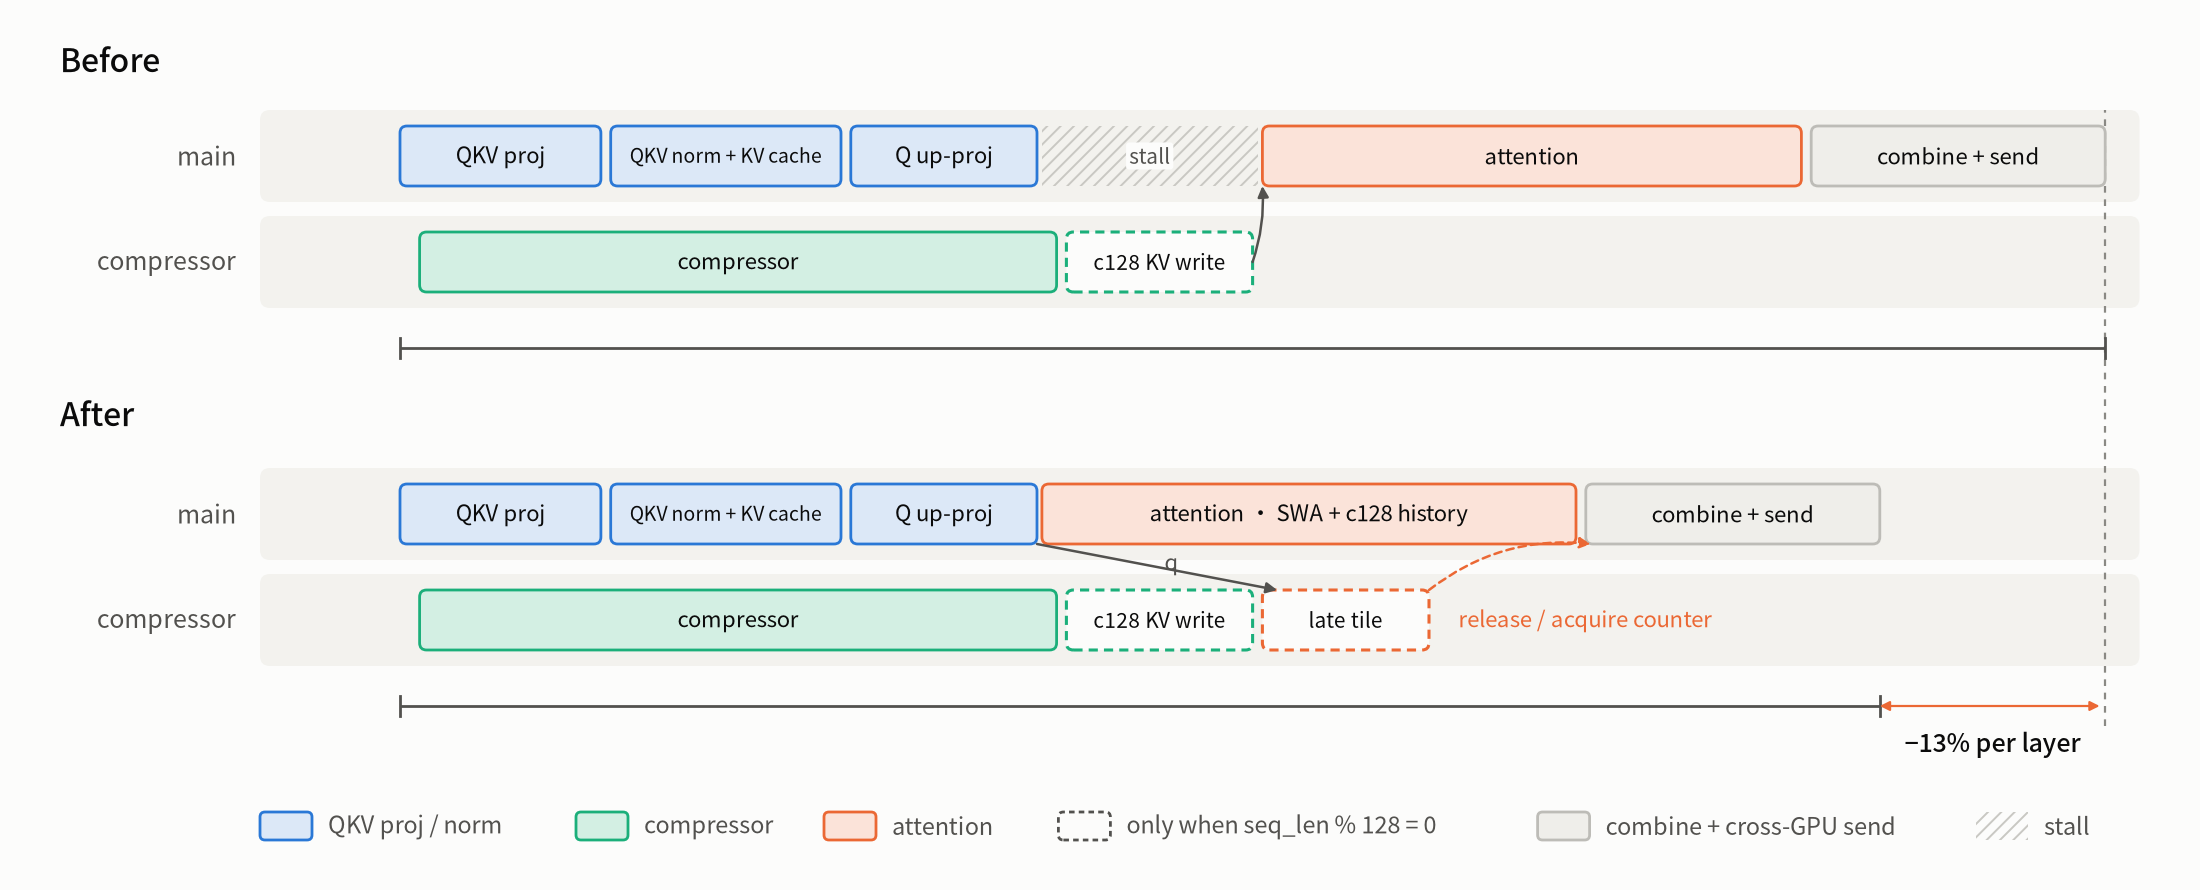
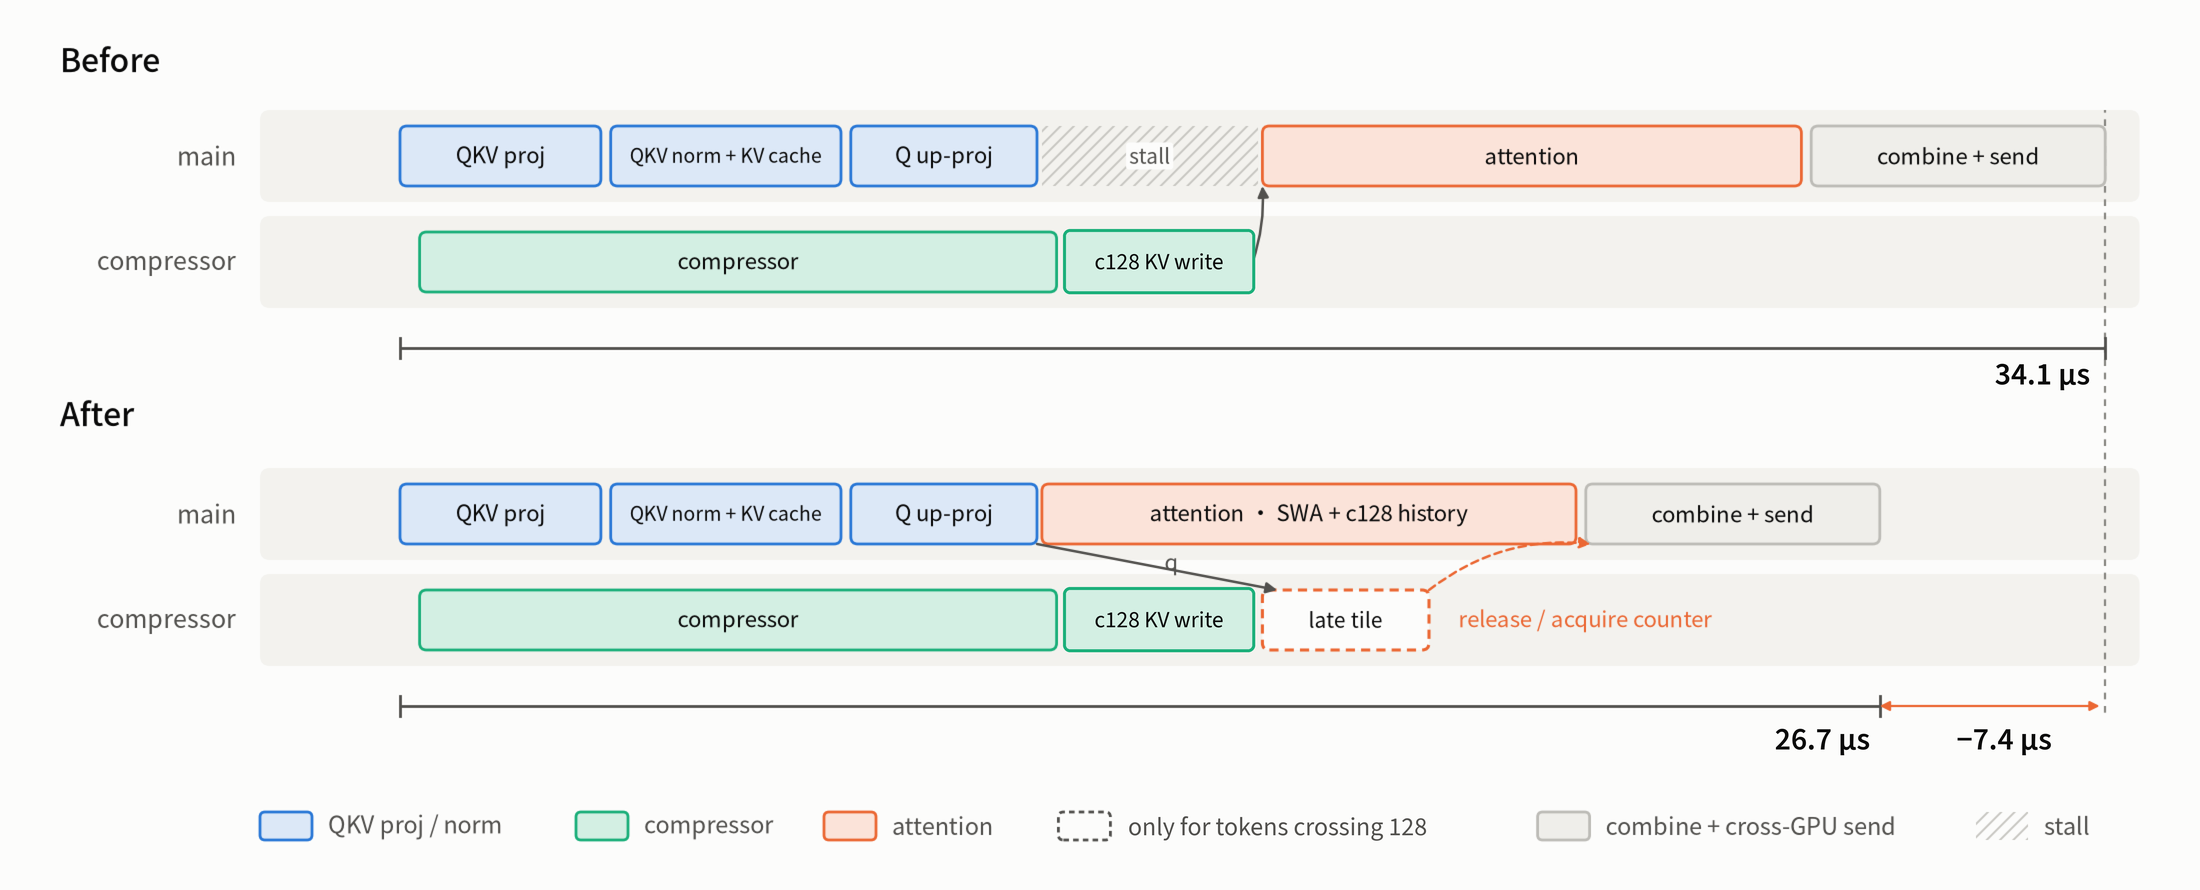
fix docs

diff --git a/blog/2026-11-23-ernie55-flash-low-latency.md b/blog/2026-11-23-ernie55-flash-low-latency.md
@@ -6,15 +6,15 @@ previewImg: "/images/blog/ernie55-flash-low-latency/decode-progress.png"
 type: "blog"
 ---
 
-We have added low-latency decoding support for ERNIE 5.5 Flash to SGLang and optimized it end to end. On four SM100 GPUs, BS=1, 55K input tokens and 1K output tokens, we introduced low-latency GEMM and tensor parallelism, integrated DSpark speculative decoding, iteratively tuned compute-communication fusion, multi-stream execution and PDL, and completed optimizations including MegaLLMoE, attention dataflow restructuring and One-Pass mHC. With the final configuration of attention TP4 and MoE TP4, **decoding reaches 1074 tokens/s at a DSpark acceptance length of 5.5, and about 1310 tokens/s at an acceptance length of 7.2.**
+We have added low-latency decoding support for ERNIE 5.5 Flash to SGLang and optimized it end to end. On four SM100 GPUs, BS=1, 55K input tokens and 1K output tokens, we introduced low-latency GEMM and tensor parallelism, integrated DSpark speculative decoding, iteratively tuned compute-communication fusion, multi-stream execution and PDL, and completed optimizations including MegaLLMoE, attention dataflow restructuring and One-Pass mHC. With the final configuration of attention TP4 and MoE TP4, **decoding reaches 1074 tokens/s at a simulated mean DSpark acceptance length of 5.5, and about 1310 tokens/s with DSpark block size 7 at a simulated acceptance length of 7.2.**
 
 ![ERNIE 5.5 Flash decode speed after each merged optimization](/images/blog/ernie55-flash-low-latency/decode-progress.png)
 
-Each point shows the end-to-end decoding speed after an optimization was merged, in merge order, with several key optimizations annotated. All measurements after DSpark is enabled use an acceptance length of 5.5.
+Each point shows the end-to-end decoding speed after an optimization was merged, in merge order, with several key optimizations annotated. The first point is the naive DP/EP implementation, and TP4 is used from the second point on. All measurements after DSpark is enabled use a simulated acceptance length of 5.5.
 
 ## The Bottlenecks of Low-Latency Decoding
 
-LLM decoding is autoregressive: each step depends on the output of the previous one. Pushing decoding speed to its limit generally means optimizing aggressively for low concurrency, where very few tokens take part in each step: one in regular decoding, and only a handful even with speculative decoding. Measured by the roofline model, its arithmetic intensity is far too low, making it a classic memory-bound workload. ERNIE 5.5 Flash is a large sparse MoE model that uses mHC to maintain multiple residual streams across layers. In this setting, every fine-grained architectural detail adds memory traffic, synchronization and communication overhead, synchronization and communication overhead. Decoding here is therefore fundamentally latency-bound rather than compute-bound. The per-step time is determined by a serial critical path, which carries three main kinds of overhead: weight reads bounded by HBM bandwidth; scheduling, synchronization and other overheads unrelated to the amount of computation; and communication latency introduced by multi-GPU collaboration. The smaller the computation, the larger the share of the latter two, until they dominate the latency.
+LLM decoding is autoregressive: each step depends on the output of the previous one. Pushing decoding speed to its limit generally means optimizing aggressively for low concurrency, where very few tokens take part in each step: one in regular decoding, and only a handful even with speculative decoding. Measured by the roofline model, its arithmetic intensity is far too low, making it a classic memory-bound workload. ERNIE 5.5 Flash is a large sparse MoE model that uses mHC to maintain multiple residual streams across layers. In this setting, every fine-grained architectural detail adds memory traffic, synchronization and communication overhead. Decoding here is therefore fundamentally latency-bound rather than compute-bound. The per-step time is determined by a serial critical path, which carries three main kinds of overhead: weight reads bounded by HBM bandwidth; scheduling, synchronization and other overheads unrelated to the amount of computation; and communication latency introduced by multi-GPU collaboration. The smaller the computation, the larger the share of the latter two, until they dominate the latency.
 
 Decoding speed is the number of tokens produced per step divided by the per-step latency, so the optimization work splits into two directions. The first is to reduce the number of decoding steps: speculative decoding verifies multiple candidate tokens in parallel within one forward pass, yielding more decoded tokens at a small extra cost while raising arithmetic intensity. The second is to cut per-step latency: targeting the three kinds of overhead on the critical path, we push weight reads toward the bandwidth limit, cut fixed overheads through operator fusion, and hide communication latency by overlapping it with computation.
 
@@ -22,7 +22,7 @@ Decoding speed is the number of tokens produced per step divided by the per-step
 
 **Moving Away from DP/EP: less communication, better load balance.** In low-latency scenarios, the choice of parallelism is driven by critical-path latency rather than throughput. Our analysis shows that if attention runs with data parallelism, all memory access and computation fall on a subset of ranks while the remaining ranks sit idle waiting for the heavily loaded ones. Tensor parallelism instead spreads computation and weight reads evenly across all ranks at the cost of a small amount of communication, which both uses the full compute of every GPU and shortens the serial time of the heavily loaded rank. The same holds for MoE. EP requires a round of cross-GPU exchange before and after expert computation, and each step has too little computation to hide the waiting. TP only needs to reduce the expert outputs, which lowers both the communication volume and the number of synchronizations. It also splits every expert evenly across all GPUs, eliminating the load skew caused by uneven routing under EP, so the layer latency is no longer bounded by the most heavily loaded GPU.
 
-**Fine-grained GEMM: keeping SMs busy.** Blackwell's new FP8 UMMA instructions are designed for large matrices: each instruction covers a large matrix block, and tiles are partitioned coarsely when combined with TMA. At batch size 1 with TP partitioning, matrix dimensions are very small, and tiles cut at this granularity cannot fill all SMs, leaving much of the compute and memory bandwidth idle. We emulate the m16n8k32 MMA instruction to cut tiles more finely so that more SMs participate, and when there are fewer than 8 tokens we apply swapAB, mapping the token dimension to the N dimension to reduce padding. This improves small-GEMM performance by up to 90%. For routed experts, where weight reads dominate, we further adopt W4A8 mixed precision, pairing FP4 weights with FP8 activations. This halves weight memory traffic compared with FP8 and directly shortens read time under the bandwidth limit.
+**Fine-grained GEMM: keeping SMs busy.** Blackwell's new FP8 UMMA instructions are designed for large matrices: each instruction covers a large matrix block, and tiles are partitioned coarsely when combined with TMA. At batch size 1 with TP partitioning, matrix dimensions are very small, and tiles cut at this granularity cannot fill all SMs, leaving much of the compute and memory bandwidth idle. We emulate the m16n8k32 MMA instruction to cut tiles more finely so that more SMs participate, and when there are fewer than 8 tokens we apply swapAB, mapping the token dimension to the N dimension to reduce padding. On per-rank TP4 decode shapes, this is up to 1.9× faster than DeepGEMM's FP8 GEMM (2048×1024 at M=6: 4.30 → 2.23 µs, PDL enabled for both). For routed experts, where weight reads dominate, we further adopt W4A8 mixed precision, pairing FP4 weights with FP8 activations. This halves weight memory traffic compared with FP8 and directly shortens read time under the bandwidth limit.
 
 **Operator fusion: tight handoff between communication and computation.** Model inference involves many scattered small operators such as Norm, RoPE and merge. Each costs little to compute, yet each pays separately for kernel launch and for reading and writing intermediate activations, and these overheads are especially pronounced in low-latency scenarios. We merge adjacent small operators, removing thousands of kernel launches and memory reads and writes per decoding step. Cross-GPU communication is folded into computation as well: with symmetric memory, communication avoids the overhead of a collective-communication library and reduces to a few remote write instructions at the tail of the adjacent compute kernel, with arrival signaled by the data itself and no extra synchronization.
 
@@ -32,7 +32,7 @@ Decoding speed is the number of tokens produced per step divided by the per-step
 
 ERNIE 5.5 Flash's attention uses the HCA and MLA-DSA sparse structures and includes two distinctive structural designs: cross-head low-rank post-mixing (VHA post-mix), which lets the outputs of different heads interact, and gated attention, which uses a gating projection to improve model quality. The cross-head interaction introduced by VHA also shapes the computation of attention post-processing.
 
-Within attention itself, more than 80% of ERNIE 5.5 Flash's layers use HCA attention. In a conventional implementation, attention depends on the current layer's query together with keys and values from both the SWA window and the compressor. We observed that the compressor produces new compressed keys and values only once it has accumulated a full compression block of tokens, yet its execution chain sits ahead of the attention kernel and delays the kernel's launch; meanwhile, the compressor itself has very low GPU utilization. We therefore separate the compressor, together with the attention over the one KV block that depends on the newly compressed KV (late tile attention), from the main attention body and run them on a side stream using idle SMs. A lightweight release/acquire signal then notifies the combine kernel on the main stream to collect the result, avoiding kernel-level synchronization. This reduces the critical-path latency of the HCA module by 13%.
+Within attention itself, more than 80% of ERNIE 5.5 Flash's layers use HCA attention. In a conventional implementation, attention depends on the current layer's query together with keys and values from both the SWA window and the compressor. We observed that the compressor produces new compressed keys and values only once it has accumulated a full compression block of tokens, yet its execution chain sits ahead of the attention kernel and delays the kernel's launch; meanwhile, the compressor itself has very low GPU utilization. We therefore separate the compressor, together with the attention over the one KV block that depends on the newly compressed KV (late tile attention), from the main attention body and run them on a side stream using idle SMs. A lightweight release/acquire signal then notifies the combine kernel on the main stream to collect the result, avoiding kernel-level synchronization. This takes the compressor off the critical path of the HCA layer.
 
 ![HCA attention pipeline before and after moving the compressor and late tile to a side stream](/images/blog/ernie55-flash-low-latency/hca-pipeline.png)
 
@@ -68,7 +68,7 @@ We introduced DSpark, a parallel speculative decoding scheme, in the post-traini
 
 ## Performance Data and Reproduction
 
-We use 4 SM100-architecture GPUs with CUDA 13.0, PyTorch 2.14.1 and HALOps 0.2.0. SGLang is built from PR #TBD (to be added).
+We use 4 SM100-architecture GPUs with CUDA 13.0, PyTorch 2.14.1 and HALOps 0.2.0. SGLang is built from [PR #52603](https://github.com/sgl-project/sglang/pull/52603). Both `--model-path` and `--speculative-draft-model-path` point to the same ERNIE 5.5 Flash checkpoint, which already contains the DSpark draft layers; download it separately.
 
 Launch the server and run the benchmark as follows. Setting SGLANG_ERNIE55_LOW_LATENCY_DECODE=1 enables the low-latency backend, and the other three environment variables simulate an acceptance length of 5.5:
 
@@ -98,7 +98,7 @@ python -m sglang.benchmark.serving \
   --num-prompts 10 --max-concurrency 1 --warmup-requests 1 \
   --extra-request-body '{"ignore_eos": true, "temperature": 0.0, "top_p": 1.0, "seed": 42}'
 ```
-The table below shows the performance at the main optimization stages. After DSpark was integrated, data are measured at an acceptance length of 5.5. Since the optimizations landed incrementally, we recorded the decoding speed and per-step time at each stage.
+The table below shows the performance at the main optimization stages. After DSpark was integrated, data are measured at a simulated acceptance length of 5.5. Since the optimizations landed incrementally, we recorded the decoding speed and per-step time at each stage. Decoding speed is derived from the benchmark's mean TPOT (time per output token, excluding the first token) as 1 / TPOT, and per-step time is TPOT multiplied by the acceptance length.
 
 | **Optimization**                                           | **Per-step time (ms)** | **Decoding speed (tokens/s)** |
 | :--------------------------------------------------------- | :--------------------- | :---------------------------- |
@@ -109,7 +109,8 @@ The table below shows the performance at the main optimization stages. After DSp
 | One-Pass mHC / quantization fusion                         | 6.58                   | 836                           |
 | Attention dataflow restructuring / multi-stream management | 5.80                   | 948                           |
 | MegaLLMoE                                                  | 5.12                   | **1074**                      |
-| DSpark block size 7, acceptance length 7.2                 | 5.50                   | **1310**                      |
+
+With DSpark block size 7 (`--speculative-dspark-block-size 7`) and a simulated acceptance length of 7.2 (`SGLANG_SIMULATE_ACC_LEN=7.2`), the per-step time rises to 5.50 ms, but each step yields more tokens, and decoding reaches about 1310 tokens/s.
 
 Part of this work was done with the help of AI RSI. ERNIE Evolve contributed many valuable optimization ideas and practices, and the capability and creativity of AI RSI are reshaping how we do research and development. The core kernels in this article, including low-latency GEMM, the MegaLLMoE fused operator and One-Pass mHC, are open-sourced in the [HALOps repository](https://www.github.com/paddlepaddle/halops), which also contains more of our high-performance work for efficient LLM inference. Discussion and contributions are welcome.
 
